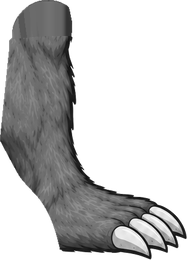
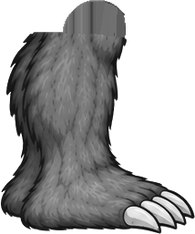
Beta: neue Figur – Rumpf und alle Beinstellungen seitlich aus einem Blatt
side_squats.png (stehend, leicht, halb, tief) ersetzt side_stand/side_half/side_torso:
gleiche Zeichnung, gleicher Massstab. Gesäss hinter dem Chalkbag ergänzt, hinteres Bein
bei gleichem Bewegungsablauf weggelassen (keine doppelten Umrisse).

Claude-Session: https://claude.ai/code/session_01RzgDZiCUCCWMjrRSUqxzer

diff --git a/beta/sloth-rig.js b/beta/sloth-rig.js
@@ -18,7 +18,7 @@ const slothPartHref = (im) => (im.startsWith('v2') ? SLOTH_RIG2_BASE : SLOTH_RIG
 const SLOTH_PARTS = {"front_head":[510,53,696,293],"front_torso":[456,248,745,582],"front_uarm_l":[296,251,478,388],"front_uarm_r":[723,251,904,388],"front_farm_l":[51,288,294,400],"front_farm_r":[907,288,1150,400],"front_thigh_l":[439,516,582,697],"front_thigh_r":[629,516,773,697],"front_tail":[566,584,643,725],"front_calf_l":[444,678,569,866],"front_calf_r":[643,679,768,866],"back_head":[510,53,696,293],"back_torso":[455,247,745,622],"back_uarm_l":[300,251,478,388],"back_uarm_r":[723,251,900,388],"back_farm_l":[163,288,294,396],"back_farm_r":[906,288,1039,396],"back_elbow_l":[267,315,319,367],"back_elbow_r":[881,314,934,367],"back_grip_l":[195,606,314,813],"back_grip_r":[899,606,1018,813],"back_thigh_l":[439,567,571,697],"back_thigh_r":[641,562,773,697],"back_tail":[566,619,643,741],"back_calf_l":[444,678,569,866],"back_calf_r":[643,678,768,866],"pose_russian_a":[209,33,499,221],"pose_russian_b":[679,29,968,221],"pose_ninety":[339,246,498,434],"pose_frog_a":[252,454,543,618],"pose_frog_b":[697,485,1018,614],"pose_extrot_a":[405,634,537,875],"pose_extrot_b":[633,634,817,876],"eq_plate":[570,40,688,159],"eq_kettlebell":[870,40,962,159],"eq_dumbbell":[184,51,365,151],"eq_dhandle":[178,193,273,328],"eq_rope":[515,183,622,331],"eq_ring":[866,182,955,336],"eq_barend":[66,379,285,434],"eq_bench":[326,418,558,499],"eq_incline":[604,353,821,499],"eq_decline":[887,404,1118,499],"eq_cable":[92,506,252,840],"eq_dipstation":[436,631,630,840],"eq_rack":[890,553,1108,840],"eq_latpull":[68,33,226,248],"eq_legpress":[312,68,575,239],"eq_legext":[657,67,851,241],"eq_legcurl":[917,67,1143,241],"eq_butterfly":[69,324,232,543],"eq_abduction":[362,329,510,543],"eq_calfseated":[657,417,844,543],"eq_calfstanding":[931,326,1134,541],"eq_hyperext":[71,688,280,839],"eq_pullover":[465,604,649,840],"eq_tbar":[877,653,1112,840],"eq_abwheel":[181,58,443,250],"eq_jumprope":[776,42,989,261],"eq_ladder":[93,361,534,514],"eq_stepbox":[748,354,1035,538],"eq_band":[93,682,531,759],"eq_mat":[627,666,1152,759],"eq_stack":[303,516,390,652],"eq_calfframe":[499,491,711,666],"eq_calfpad":[807,531,920,627],"eq_dipbars":[292,735,461,819],"eq_nordic":[535,711,724,819],"eq_abductseat":[1008,654,1141,819],"eq_edge":[818,753,954,823],"front_face_neutral":[106,22,253,213],"front_face_effort":[106,22,251,213],"front_face_blink":[106,22,253,213],"front_face_yawn":[106,22,253,213],"side_face_neutral":[104,40,335,317],"side_face_effort":[103,40,334,317],"side_face_blink":[104,40,332,317],"side_torso":[458,53,699,568],"side_body":[458,220,692,568],"side_tail":[372,453,473,535],"side_uarm":[791,80,910,268],"side_uarm_far":[791,80,910,268],"side_elbow":[811,261,857,307],"side_elbow_far":[811,261,857,307],"side_farm":[770,320,959,400],"side_farm_far":[770,320,959,400],"side_hand":[990,449,1166,539],"side_hand_far":[990,449,1166,539],"side_thigh":[629,516,773,687],"side_thigh_far":[629,516,773,687],"side_knee":[721,652,768,700],"side_knee_far":[721,652,768,700],"side_calf":[1020,689,1180,854],"side_calf_far":[1020,689,1180,854],"side_shin":[1020,689,1122,793],"side_shin_far":[1020,689,1122,793],"side_fist":[59,109,404,284],"side_fist_far":[59,109,404,284],"side_foot":[152,622,370,804],"side_foot_far":[152,622,370,804],"side_flat":[624,706,893,825],"side_flat_far":[624,706,893,825]};
 /* PARTS:END */
 /* V2:BEGIN */
-const SLOTH_V2 = {"parts":{"v2front_torso":[149,183,351,481],"v2front_head":[173,15,331,198],"v2front_uarm_l":[86,206,200,366],"v2front_farm_l":[12,322,139,516],"v2front_farmfist_l":[16,322,138,468],"v2front_thigh_l":[142,400,251,584],"v2front_calf_l":[80,546,224,758],"v2front_uarm_r":[300,206,418,364],"v2front_farm_r":[365,322,497,516],"v2front_farmfist_r":[370,322,494,468],"v2front_thigh_r":[252,400,365,584],"v2front_calf_r":[284,546,428,758],"v2back_torso":[149,182,351,466],"v2back_head":[174,12,338,201],"v2back_uarm_l":[79,204,201,371],"v2back_farm_l":[30,326,142,440],"v2back_grip_l":[12,412,86,518],"v2back_thigh_l":[143,398,252,586],"v2back_calf_l":[78,546,224,753],"v2back_uarm_r":[300,204,429,367],"v2back_farm_r":[370,326,478,438],"v2back_grip_r":[426,412,499,518],"v2back_thigh_r":[250,397,370,585],"v2back_calf_r":[285,546,430,753],"v2hang_torso":[164,216,346,464],"v2hang_head":[196,120,317,263],"v2hang_uarm_l":[126,136,213,334],"v2hang_farm_l":[122,50,192,164],"v2hang_grip_l":[120,13,198,74],"v2hang_thigh_l":[152,400,261,581],"v2hang_calf_l":[136,540,235,754],"v2hang_uarm_r":[297,136,387,348],"v2hang_farm_r":[321,52,391,164],"v2hang_grip_r":[316,13,392,74],"v2hang_thigh_r":[250,400,360,582],"v2hang_calf_r":[277,540,376,754],"v2sit_torso":[153,184,361,403],"v2sit_head":[176,22,337,196],"v2sit_uarm_l":[78,215,181,389],"v2sit_farm_l":[49,352,150,539],"v2sit_thigh_l":[136,377,258,491],"v2sit_calf_l":[100,453,244,750],"v2sit_uarm_r":[330,216,435,389],"v2sit_farm_r":[362,352,464,539],"v2sit_thigh_r":[254,377,376,489],"v2sit_calf_r":[268,453,412,750],"v2side_torso":[87,211,307,557],"v2side_face":[92,11,254,191],"v2side_uarm":[157,180,325,270],"v2side_farm":[296,184,442,266],"v2side_hand":[422,190,496,238],"v2side_fist":[296,184,496,266],"v2side_flat":[422,190,496,238],"v2side_uarm_far":[157,180,325,270],"v2side_farm_far":[296,184,442,266],"v2side_hand_far":[422,190,496,238],"v2side_fist_far":[296,184,496,266],"v2side_flat_far":[422,190,496,238],"v2side_thigh":[212,448,361,680],"v2side_thigh_far":[212,448,361,680],"v2side_calf":[271,640,458,900],"v2side_calf_far":[271,640,458,900],"v2side_shin":[271,640,347,836],"v2side_shin_far":[271,640,347,836],"v2side_foot":[291,783,457,899],"v2side_foot_far":[291,783,457,899],"v2side_thigh45":[127,452,355,622],"v2side_thigh45_far":[127,452,355,622],"v2side_thigh90":[110,416,406,578],"v2side_thigh90_far":[110,416,406,578]},"joints":{"front":{"torso":[[250.0,445.0],[250.0,185.0]],"head":[[250.0,185.0],[250.0,20.0]],"farm_l":[[102.5,345.0],[40.0,495.0]],"uarm_l":[[165.0,240.0],[102.5,345.0]],"thigh_l":[[210.0,445.0],[180.0,575.0]],"calf_l":[[180.0,575.0],[155.0,695.0]],"farm_r":[[397.5,345.0],[462.5,495.0]],"uarm_r":[[335.0,240.0],[397.5,345.0]],"thigh_r":[[290.0,445.0],[320.0,575.0]],"calf_r":[[320.0,575.0],[345.0,695.0]]},"back":{"torso":[[250.0,445.0],[250.0,190.0]],"head":[[250.0,190.0],[250.0,15.0]],"grip_l":[[57.5,430.0],[42.5,500.0]],"farm_l":[[102.5,350.0],[57.5,430.0]],"uarm_l":[[165.0,240.0],[102.5,350.0]],"thigh_l":[[210.0,445.0],[180.0,575.0]],"calf_l":[[180.0,575.0],[155.0,695.0]],"grip_r":[[445.0,430.0],[465.0,500.0]],"farm_r":[[400.0,350.0],[445.0,430.0]],"uarm_r":[[335.0,240.0],[400.0,350.0]],"thigh_r":[[290.0,445.0],[325.0,575.0]],"calf_r":[[325.0,575.0],[350.0,695.0]]},"hang":{"torso":[[255.0,465.0],[255.0,235.0]],"head":[[255.0,235.0],[255.0,120.0]],"grip_l":[[152.5,55.0],[157.5,25.0]],"farm_l":[[150.0,140.0],[152.5,55.0]],"uarm_l":[[177.5,255.0],[150.0,140.0]],"thigh_l":[[222.5,465.0],[187.5,570.0]],"calf_l":[[187.5,570.0],[172.5,700.0]],"grip_r":[[355.0,55.0],[352.5,25.0]],"farm_r":[[357.5,140.0],[355.0,55.0]],"uarm_r":[[332.5,255.0],[357.5,140.0]],"thigh_r":[[287.5,465.0],[322.5,570.0]],"calf_r":[[322.5,570.0],[340.0,700.0]]},"sit":{"torso":[[255.0,415.0],[255.0,190.0]],"head":[[255.0,190.0],[255.0,25.0]],"farm_l":[[105.0,375.0],[75.0,525.0]],"uarm_l":[[145.0,257.5],[105.0,375.0]],"thigh_l":[[190.0,415.0],[192.5,482.5]],"calf_l":[[192.5,482.5],[169.0,660.0]],"farm_r":[[405.0,375.0],[435.0,525.0]],"uarm_r":[[365.0,257.5],[405.0,375.0]],"thigh_r":[[320.0,415.0],[320.0,482.5]],"calf_r":[[320.0,482.5],[340.0,660.0]]},"side":{"torso":[[210.0,533.5],[213.8,315.9]],"face":[[200.0,170.0],[165.0,30.0]],"flex":{"thigh":6.7,"thigh45":74.1,"thigh90":92.4},"thigh45":[[154.5,507.3],[280.7,579.4]],"thigh90":[[167.5,492.5],[320.0,505.0]],"uarm":[[200.0,222.5],[320.0,225.0]],"farm":[[320.0,225.0],[440.0,212.5]],"fist":[[320.0,225.0],[440.0,212.5]],"hand":[[440.0,212.5],[492.5,215.0]],"flat":[[440.0,212.5],[492.5,215.0]],"thigh":[[288.0,525.0],[318.0,675.0]],"calf":[[318.0,675.0],[318.0,810.0]],"shin":[[318.0,675.0],[318.0,810.0]],"foot":[[318.0,810.0],[444.0,864.0]]}},"anchors":{"front":{"neck":[250.0,185.0],"sh_l":[165.0,240.0],"sh_r":[335.0,240.0],"hip_l":[210.0,445.0],"hip_r":[290.0,445.0],"tail":[250.0,445.0]},"back":{"neck":[250.0,190.0],"sh_l":[165.0,240.0],"sh_r":[335.0,240.0],"hip_l":[210.0,445.0],"hip_r":[290.0,445.0],"tail":[250.0,445.0]},"hang":{"neck":[255.0,235.0],"sh_l":[177.5,255.0],"sh_r":[332.5,255.0],"hip_l":[222.5,465.0],"hip_r":[287.5,465.0],"tail":[255.0,465.0]},"sit":{"neck":[255.0,190.0],"sh_l":[145.0,257.5],"sh_r":[365.0,257.5],"hip_l":[190.0,415.0],"hip_r":[320.0,415.0],"tail":[255.0,415.0]},"side":{"shoulder":[213.8,315.9],"hip":[210.0,533.5],"tail":[137.0,545.0],"face":[242.1,260.9]}}};
+const SLOTH_V2 = {"parts":{"v2front_torso":[149,183,351,481],"v2front_head":[173,15,331,198],"v2front_uarm_l":[86,206,200,366],"v2front_farm_l":[12,322,139,516],"v2front_farmfist_l":[16,322,138,468],"v2front_thigh_l":[142,400,251,584],"v2front_calf_l":[80,546,224,758],"v2front_uarm_r":[300,206,418,364],"v2front_farm_r":[365,322,497,516],"v2front_farmfist_r":[370,322,494,468],"v2front_thigh_r":[252,400,365,584],"v2front_calf_r":[284,546,428,758],"v2back_torso":[149,182,351,466],"v2back_head":[174,12,338,201],"v2back_uarm_l":[79,204,201,371],"v2back_farm_l":[30,326,142,440],"v2back_grip_l":[12,412,86,518],"v2back_thigh_l":[143,398,252,586],"v2back_calf_l":[78,546,224,753],"v2back_uarm_r":[300,204,429,367],"v2back_farm_r":[370,326,478,438],"v2back_grip_r":[426,412,499,518],"v2back_thigh_r":[250,397,370,585],"v2back_calf_r":[285,546,430,753],"v2hang_torso":[164,216,346,464],"v2hang_head":[196,120,317,263],"v2hang_uarm_l":[126,136,213,334],"v2hang_farm_l":[122,50,192,164],"v2hang_grip_l":[120,13,198,74],"v2hang_thigh_l":[152,400,261,581],"v2hang_calf_l":[136,540,235,754],"v2hang_uarm_r":[297,136,387,348],"v2hang_farm_r":[321,52,391,164],"v2hang_grip_r":[316,13,392,74],"v2hang_thigh_r":[250,400,360,582],"v2hang_calf_r":[277,540,376,754],"v2sit_torso":[153,184,361,403],"v2sit_head":[176,22,337,196],"v2sit_uarm_l":[78,215,181,389],"v2sit_farm_l":[49,352,150,539],"v2sit_thigh_l":[136,377,258,491],"v2sit_calf_l":[100,453,244,750],"v2sit_uarm_r":[330,216,435,389],"v2sit_farm_r":[362,352,464,539],"v2sit_thigh_r":[254,377,376,489],"v2sit_calf_r":[268,453,412,750],"v2side_torso":[30,238,263,592],"v2side_face":[92,11,254,191],"v2side_uarm":[157,180,325,270],"v2side_farm":[296,184,442,266],"v2side_hand":[422,190,496,238],"v2side_fist":[296,184,496,266],"v2side_flat":[422,190,496,238],"v2side_uarm_far":[157,180,325,270],"v2side_farm_far":[296,184,442,266],"v2side_hand_far":[422,190,496,238],"v2side_fist_far":[296,184,496,266],"v2side_flat_far":[422,190,496,238],"v2side_thigh":[84,498,226,712],"v2side_thigh_far":[84,498,226,712],"v2side_calf":[81,672,276,906],"v2side_calf_far":[81,672,276,906],"v2side_shin":[81,672,208,903],"v2side_shin_far":[81,672,208,903],"v2side_foot":[127,815,275,905],"v2side_foot_far":[127,815,275,905],"v2side_thighA":[394,534,584,722],"v2side_thighA_far":[394,534,584,722],"v2side_thighB":[691,567,927,732],"v2side_thighB_far":[691,567,927,732],"v2side_thighC":[1023,609,1308,753],"v2side_thighC_far":[1023,609,1308,753]},"joints":{"front":{"torso":[[250.0,445.0],[250.0,185.0]],"head":[[250.0,185.0],[250.0,20.0]],"farm_l":[[102.5,345.0],[40.0,495.0]],"uarm_l":[[165.0,240.0],[102.5,345.0]],"thigh_l":[[210.0,445.0],[180.0,575.0]],"calf_l":[[180.0,575.0],[155.0,695.0]],"farm_r":[[397.5,345.0],[462.5,495.0]],"uarm_r":[[335.0,240.0],[397.5,345.0]],"thigh_r":[[290.0,445.0],[320.0,575.0]],"calf_r":[[320.0,575.0],[345.0,695.0]]},"back":{"torso":[[250.0,445.0],[250.0,190.0]],"head":[[250.0,190.0],[250.0,15.0]],"grip_l":[[57.5,430.0],[42.5,500.0]],"farm_l":[[102.5,350.0],[57.5,430.0]],"uarm_l":[[165.0,240.0],[102.5,350.0]],"thigh_l":[[210.0,445.0],[180.0,575.0]],"calf_l":[[180.0,575.0],[155.0,695.0]],"grip_r":[[445.0,430.0],[465.0,500.0]],"farm_r":[[400.0,350.0],[445.0,430.0]],"uarm_r":[[335.0,240.0],[400.0,350.0]],"thigh_r":[[290.0,445.0],[325.0,575.0]],"calf_r":[[325.0,575.0],[350.0,695.0]]},"hang":{"torso":[[255.0,465.0],[255.0,235.0]],"head":[[255.0,235.0],[255.0,120.0]],"grip_l":[[152.5,55.0],[157.5,25.0]],"farm_l":[[150.0,140.0],[152.5,55.0]],"uarm_l":[[177.5,255.0],[150.0,140.0]],"thigh_l":[[222.5,465.0],[187.5,570.0]],"calf_l":[[187.5,570.0],[172.5,700.0]],"grip_r":[[355.0,55.0],[352.5,25.0]],"farm_r":[[357.5,140.0],[355.0,55.0]],"uarm_r":[[332.5,255.0],[357.5,140.0]],"thigh_r":[[287.5,465.0],[322.5,570.0]],"calf_r":[[322.5,570.0],[340.0,700.0]]},"sit":{"torso":[[255.0,415.0],[255.0,190.0]],"head":[[255.0,190.0],[255.0,25.0]],"farm_l":[[105.0,375.0],[75.0,525.0]],"uarm_l":[[145.0,257.5],[105.0,375.0]],"thigh_l":[[190.0,415.0],[192.5,482.5]],"calf_l":[[192.5,482.5],[169.0,660.0]],"farm_r":[[405.0,375.0],[435.0,525.0]],"uarm_r":[[365.0,257.5],[405.0,375.0]],"thigh_r":[[320.0,415.0],[320.0,482.5]],"calf_r":[[320.0,482.5],[340.0,660.0]]},"side":{"torso":[[159.2,546.0],[163.8,327.6]],"face":[[200.0,170.0],[165.0,30.0]],"flex":{"thigh":8.3,"thighA":54.6,"thighB":88.5,"thighC":111.2},"thighA":[[441.4,591.5],[538.7,675.2]],"thighB":[[728.0,637.0],[873.6,684.3]],"thighC":[[1078.4,678.0],[1269.5,680.7]],"uarm":[[200.0,222.5],[320.0,225.0]],"farm":[[320.0,225.0],[440.0,212.5]],"fist":[[320.0,225.0],[440.0,212.5]],"hand":[[440.0,212.5],[492.5,215.0]],"flat":[[440.0,212.5],[492.5,215.0]],"thigh":[[159.2,559.6],[177.5,705.2]],"calf":[[177.5,705.2],[159.2,841.8]],"shin":[[177.5,705.2],[159.2,841.8]],"foot":[[159.2,841.8],[245.7,887.2]]}},"anchors":{"front":{"neck":[250.0,185.0],"sh_l":[165.0,240.0],"sh_r":[335.0,240.0],"hip_l":[210.0,445.0],"hip_r":[290.0,445.0],"tail":[250.0,445.0]},"back":{"neck":[250.0,190.0],"sh_l":[165.0,240.0],"sh_r":[335.0,240.0],"hip_l":[210.0,445.0],"hip_r":[290.0,445.0],"tail":[250.0,445.0]},"hang":{"neck":[255.0,235.0],"sh_l":[177.5,255.0],"sh_r":[332.5,255.0],"hip_l":[222.5,465.0],"hip_r":[287.5,465.0],"tail":[255.0,465.0]},"sit":{"neck":[255.0,190.0],"sh_l":[145.0,257.5],"sh_r":[365.0,257.5],"hip_l":[190.0,415.0],"hip_r":[320.0,415.0],"tail":[255.0,415.0]},"side":{"shoulder":[163.8,327.6],"hip":[159.2,546.0],"tail":[54.6,591.5],"face":[186.6,265.7]}}};
 /* V2:END */
 
 // Gelenkpunkte in Vorlagen-Koordinaten (1200 x 896): [nah, fern]
@@ -875,6 +875,9 @@ function slothRigBuild(pose, v2 = false) {
     // Schwanz-Winkel relativ zum Rumpf wie in der bisherigen Zeichnung
     const oa = (n) => { const [p, d] = SLOTH_JOINTS.side[n]; return Math.atan2(d[1] - p[1], d[0] - p[0]) * 180 / Math.PI; };
     q.tail = place('tail', t.map(A.tail), s.torso + oa('tail') - oa('torso') + (s.tail || 0));
+    // v2: das hintere Bein liegt in der Zeichnung genau hinter dem vorderen. Bewegen sich beide Beine gleich,
+    // zeigt eine versetzte zweite Kopie nur doppelte Umrisse -> dann hinteres Bein weglassen.
+    const sameLegs = v2 && !pose.farFoot && ![pose.a, pose.b].some((k) => ['fthigh', 'fcalf', 'ffoot', 'legBend', 'kneeThigh', 'kneeCalf'].some((n) => k[n] != null));
     for (const far of [false, true]) {
       const x = far ? '_far' : '', raw = (k) => (far ? s['f' + k] ?? s[k] : s[k]);
       // relArms: Armwinkel relativ zum Rumpf (Arme drehen beim Aufrichten mit)
@@ -919,21 +922,23 @@ function slothRigBuild(pose, v2 = false) {
         q.calf_far = place('calf', th.end, Math.atan2(cv[1], cv[0]) * 180 / Math.PI + (pose.farFoot[2] || 0), 'side_calf_far');
       }
     }
-    // v2: Gesäss + Oberschenkel gibt es gezeichnet stehend, halb und tief gebeugt. Je nach Hüftbeugung
-    // (Winkel Rumpf -> Oberschenkel) wird zur passenden Zeichnung übergeblendet, statt nur zu drehen.
+    // v2: Gesäss + Oberschenkel gibt es gezeichnet stehend und in drei Beugungen (ein Blatt, gleiche Zeichnung).
+    // Je nach Hüftbeugung (Winkel Rumpf -> Oberschenkel) wird zur passenden Zeichnung übergeblendet, statt nur zu drehen.
+    if (sameLegs) for (const k of ['thigh_far', 'knee_far', 'calf_far', 'foot_far']) if (q[k]) q[k] = { skip: true, P: q[k].P, end: q[k].end };
     if (v2 && J.flex) for (const x of ['', '_far']) {
       const th = q['thigh' + x];
       if (!th || th.skip) continue;
       const [b0, b1] = J.thigh, deg = th.r + Math.atan2(b1[1] - b0[1], b1[0] - b0[0]) * 180 / Math.PI;
       const f = ((s.torso + 180 - deg) % 360 + 540) % 360 - 180, F = J.flex;
       const ramp = (lo, hi) => { const u = Math.min(1, Math.max(0, (f - lo) / (hi - lo))); return u * u * (3 - 2 * u); };
-      const mid = (a, b, t) => a + (b - a) * t;
-      // kurzer Übergang (±5°) in der Mitte zwischen zwei Zeichnungen: kein durchscheinendes Geisterbein
-      const m1 = mid(F.thigh, F.thigh45, 0.5), m2 = mid(F.thigh45, F.thigh90, 0.5);
-      const o45 = ramp(m1 - 5, m1 + 5), o90 = ramp(m2 - 5, m2 + 5);
-      th.o = o45 >= 1 ? 0 : 1; // darunterliegende Stellung ausblenden, sobald die nächste ganz deckt
-      q['thigh45' + x] = { ...place('thigh45', th.P, deg, 'side_thigh45' + x), o: o90 >= 1 ? 0 : o45 };
-      q['thigh90' + x] = { ...place('thigh90', th.P, deg, 'side_thigh90' + x), o: o90 };
+      // kurzer Übergang (±5°) in der Mitte zwischen zwei Zeichnungen; darunterliegende ausblenden, sobald die nächste deckt
+      const ks = Object.keys(F).sort((m, n) => F[m] - F[n]);
+      const op = ks.map((k, i) => (i === 0 ? 1 : ramp((F[ks[i - 1]] + F[k]) / 2 - 5, (F[ks[i - 1]] + F[k]) / 2 + 5)));
+      ks.forEach((k, i) => {
+        const o = op[i + 1] >= 1 ? 0 : op[i];
+        if (k === 'thigh') th.o = o;
+        else q[k + x] = { ...place(k, th.P, deg, 'side_' + k + x), o };
+      });
     }
     for (const k of pose.mirror || []) q[k].k = [q[k].k, -q[k].k]; // Teil an der Knochenachse spiegeln
     return { q, pts: { wrist: q.farm.end, ankle: q.calf.end, grip: q.hand.end, knee: q.thigh.end, elbow: q.uarm.end,
@@ -1119,7 +1124,8 @@ function slothRigPrepare(poseName) {
   // armsFront: Arme vor dem Rumpf zeichnen (Vorderansicht, Arme kreuzen die Brust)
   let base = SLOTH_ORDER[pose.view];
   // gebeugte Oberschenkel-Zeichnungen direkt über dem stehenden Oberschenkel
-  base = base.flatMap((k) => { const m = /^thigh(_far)?$/.exec(k); return m && pose.view === 'side' ? [k, 'thigh45' + (m[1] || ''), 'thigh90' + (m[1] || '')] : [k]; });
+  const flexKeys = Object.keys(SLOTH_V2.joints.side.flex || {}).filter((k) => k !== 'thigh').sort((m, n) => SLOTH_V2.joints.side.flex[m] - SLOTH_V2.joints.side.flex[n]);
+  base = base.flatMap((k) => { const m = /^thigh(_far)?$/.exec(k); return m && pose.view === 'side' ? [k, ...flexKeys.map((f) => f + (m[1] || ''))] : [k]; });
   if (pose.armsFront) { const arms = base.filter((k) => /arm/.test(k)); base = base.filter((k) => !/arm/.test(k)); base.splice(base.indexOf('torso') + 1, 0, ...arms); }
   // drawLast: Teile ganz nach vorne holen (z. B. gefalteter Unterschenkel vor dem eigenen Oberschenkel)
   if (pose.drawLast) { base = base.filter((k) => !pose.drawLast.includes(k)); base.push(...pose.drawLast); }

diff --git a/beta/sw.js b/beta/sw.js
@@ -1,4 +1,4 @@
-const CACHE_NAME = 'pincho-beta-v69';
+const CACHE_NAME = 'pincho-beta-v70';
 const SHELL_ASSETS = [
   './', './index.html', './styles.css', './data.js', './firebase.js', './sloth-rig.js', './app.js',
   './manifest.json', '../assets/icon-512-any.png', '../assets/icon-192-any.png', '../assets/icon-512-transparent.png', '../assets/icon-512-maskable.png', '../assets/icon-beta-192-any.png', '../assets/icon-beta-512-maskable.png',

diff --git a/tools/sloth-rig/build_v2.py b/tools/sloth-rig/build_v2.py
@@ -68,8 +68,10 @@ VIEWS = {
 CAP = {'sh': 70, 'el': 46, 'wr': 36, 'hip': 75, 'kn': 58, 'an': 44, 'neck': 60}
 
 
-def figure(path):
+def figure(path, xr=None):
     A = np.asarray(Image.open(os.path.join(HERE, 'sheets', 'v2', path)).convert('RGB')).astype(float)
+    if xr:  # Blatt mit mehreren Figuren: nur die Spalte xr = (x0, x1) behalten
+        A = A.copy(); A[:, :xr[0]] = 255; A[:, xr[1]:] = 255
     white = (A.min(2) > 225) & (np.ptp(A, 2) < 25)
     fig = ndi.binary_fill_holes(~white)
     lab, n = ndi.label(fig)
@@ -239,18 +241,33 @@ def cut_view(view, cfg, parts, joints, anchors):
 
 # Seitlicher Rumpf ohne Arme (Brust frei). Gelenke in Blatt-Pixeln; sy streckt den Rumpf auf die Länge
 # von side.jpg (Schulter -> Gürtel), damit Kopf, Arm und Beine von dort passen.
-SIDE_TORSO = dict(src='side_torso.jpg', sx=0.95, sy=1.08, rot=6,
-    J=dict(neck=(520, 490), sh=(450, 585), hip=(400, 985), tail=(245, 990)),
-    poly=[(290, 420), (540, 400), (560, 480), (610, 540), (645, 620), (630, 710), (600, 780), (575, 850), (548, 905), (420, 878), (312, 842),
-          (298, 880), (285, 950), (250, 1000), (165, 1005), (140, 940), (150, 800), (195, 785), (285, 780), (290, 700), (290, 600), (285, 500)])
+# Seite ohne Arme: Rumpf und alle Beinstellungen aus EINEM Blatt (side_squats.png, vier Figuren nebeneinander:
+# stehend, leicht, halb, tief gebeugt). Ein Blatt = ein Zeichendurchgang -> Fell, Dicke und Gesäss passen zusammen.
+# Alle Teile mit demselben Massstab SQ (Rumpflänge wie bisher, damit Kopf und Arm aus side.jpg passen).
+SQ = 1.82
+SQX = [(0, 340), (340, 680), (680, 1050), (1050, 1536)]
+SIDE_TORSO = dict(src='side_squats.png', xr=SQX[0], sx=SQ, sy=SQ, rot=0,
+    J=dict(neck=(205, 292), sh=(180, 360), hip=(175, 600), tail=(60, 650)),
+    poly=[(85, 300), (150, 270), (250, 262), (282, 318), (300, 395), (294, 460), (265, 515), (250, 592), (100, 556), (80, 450), (70, 350)],
+    bag=[(22, 512), (112, 512), (112, 648), (22, 648)])
 
 
 def side_torso(parts, key, cfg):
-    A, G, fig, alpha = figure(cfg['src'])
+    A, G, fig, alpha = figure(cfg['src'], cfg.get('xr'))
     H, W = fig.shape
     im = Image.new('L', (W, H), 0)
     ImageDraw.Draw(im).polygon(cfg['poly'], fill=1)
     mask = np.asarray(im).astype(bool) & fig
+    if cfg.get('bag'):  # Chalkbag gehört zum Rumpf – nur der Beutel selbst (nicht Fell daneben)
+        bm = Image.new('L', (W, H), 0)
+        ImageDraw.Draw(bm).polygon(cfg['bag'], fill=1)
+        fur = (A[..., 0] - A[..., 2] > 55) & (A.max(2) < 215)
+        bag = np.asarray(bm).astype(bool) & fig & ~fur
+        bag = ndi.binary_fill_holes(ndi.binary_closing(bag, iterations=3))
+        lb, nn = ndi.label(bag)
+        if nn > 1:
+            bag = lb == (np.argmax(ndi.sum(bag, lb, range(1, nn + 1))) + 1)
+        mask = mask | ndi.binary_dilation(bag, iterations=2) & fig
     lb, nn = ndi.label(mask)
     if nn > 1:
         mask = lb == (np.argmax(ndi.sum(mask, lb, range(1, nn + 1))) + 1)
@@ -270,20 +287,43 @@ def side_torso(parts, key, cfg):
     return {k: [round(rotp(q)[0] * fx, 1), round(rotp(q)[1] * fy, 1)] for k, q in cfg['J'].items()}
 
 
-# Gesäss + Oberschenkel in gebeugten Stellungen (Seite, ohne Arme). Die Puppe blendet je nach Hüftwinkel
-# zwischen stehend (side.jpg), halb (45) und tief (90) über, statt den stehenden Oberschenkel nur zu drehen.
-# torso = (Hüfte, Schulter) der Zeichnung für den Rumpfwinkel; belt = Unterkante Gürtel; bag = Chalkbag (gehört zum Rumpf).
-# Stehendes Bein (Seite, ohne Arme): Oberschenkel mit Gesäss, Unterschenkel, Fuss. *L = hinteres Bein (nur zum Ausschliessen).
-# scale: Zeichnungen derselben Serie, auf die Grösse des Rumpfs (side_torso.jpg) gebracht.
-SIDE_STAND = dict(src='side_stand.png', scale=1.2, hip=(480, 875), kn=(530, 1125), an=(530, 1350), to=(740, 1440), torso=((470, 860), (440, 490)),
-                  thL=(430, 1010), knL=(405, 1140), anL=(365, 1335), toL=(470, 1405),
-                  belt=((400, 760), (595, 835)), bag=[(258, 705), (402, 708), (398, 765), (362, 800), (358, 908), (258, 908)])
+# Beine aus side_squats.png. torso = (Hüfte, Schulter) der Figur für den Beugewinkel; belt = Unterkante Gürtel;
+# bag = Chalkbag (gehört zum Rumpf). Stehend: ganzes Bein (Oberschenkel, Unterschenkel, Fuss); gebeugt: nur Gesäss + Oberschenkel,
+# die Puppe blendet je nach Hüftwinkel zur nächsten Zeichnung über.
+SIDE_STAND = dict(src='side_squats.png', xr=SQX[0], scale=SQ, hip=(175, 615), kn=(195, 775), an=(175, 925), to=(270, 975), torso=((175, 600), (180, 360)),
+                  belt=((100, 532), (245, 575)), bag=[(22, 512), (112, 512), (112, 648), (22, 648)])
 SIDE_LEGS = {
-    'thigh45': dict(src='side_half.png', scale=1.03, hip=(300, 985), kn=(545, 1125), an=(400, 1370), to=(560, 1450), torso=((390, 1015), (480, 650)),
-                    belt=((280, 885), (525, 968)), bag=[(160, 812), (325, 815), (320, 860), (268, 895), (262, 1008), (160, 1012)]),
-    'thigh90': dict(src='side_torso.jpg', scale=1.0, hip=(335, 985), kn=(640, 1010), an=(520, 1330), to=(700, 1420), torso=((400, 985), (450, 585)),
-                    belt=((300, 845), (540, 910)), bag=[(140, 785), (305, 785), (300, 830), (222, 880), (220, 1008), (140, 1012)]),
+    'thighA': dict(src='side_squats.png', xr=SQX[1], scale=SQ, hip=(485, 650), kn=(592, 742), an=(512, 912), to=(620, 968), torso=((485, 640), (510, 370)),
+                   belt=((445, 568), (608, 600)), bag=[(405, 552), (488, 552), (488, 672), (405, 672)]),
+    'thighB': dict(src='side_squats.png', xr=SQX[2], scale=SQ, hip=(800, 700), kn=(960, 752), an=(862, 912), to=(995, 970), torso=((800, 690), (880, 420)),
+                   belt=((785, 612), (915, 655)), bag=[(702, 577), (785, 577), (785, 702), (702, 702)]),
+    'thighC': dict(src='side_squats.png', xr=SQX[3], scale=SQ, hip=(1185, 745), kn=(1395, 748), an=(1262, 912), to=(1400, 968), torso=((1185, 740), (1290, 480)),
+                   belt=((1175, 660), (1325, 712)), bag=[(1078, 628), (1170, 628), (1170, 758), (1078, 758)]),
 }
+
+
+def under_bag(mask, bag, fig, below, G, g, a0):
+    """Gesäss hinter dem Chalkbag ergänzen: Bag-Fläche innerhalb der konvexen Hülle des Beins mit Fell
+    (an der nächsten Beinkante gespiegelt) füllen, damit beim Drehen keine gerade Schnittkante sichtbar wird."""
+    from scipy.spatial import ConvexHull
+    pts = np.argwhere(mask)[:, ::-1]
+    H, W = mask.shape
+    hm = Image.new('L', (W, H), 0)
+    ImageDraw.Draw(hm).polygon([tuple(map(int, q)) for q in pts[ConvexHull(pts).vertices]], fill=1)
+    ry, rx = np.nonzero(bag & fig & below & ~mask & np.asarray(hm).astype(bool))
+    if not len(ry):
+        return mask
+    fill = np.zeros_like(mask); fill[ry, rx] = True
+    inner = ndi.binary_erosion(mask, iterations=6)
+    _, (iy, ix) = ndi.distance_transform_edt(~inner, return_indices=True)
+    qy, qx = iy[ry, rx], ix[ry, rx]
+    my = np.clip(2 * qy - ry, 0, H - 1); mx = np.clip(2 * qx - rx, 0, W - 1)
+    ok = inner[my, mx]
+    g[ry, rx] = np.where(ok, G[my, mx], G[qy, qx]); a0[ry, rx] = 1.0
+    # Umrisslinie am neuen Rand (wie gezeichnet)
+    edge = fill & ~ndi.binary_erosion(fill | mask, iterations=3)
+    g[:] = g * (1 - 0.8 * ndi.gaussian_filter(edge.astype(float), 0.8))
+    return mask | fill
 
 
 def flex_of(torso, hip, kn):
@@ -294,12 +334,12 @@ def flex_of(torso, hip, kn):
 
 
 def side_stand(parts, cfg):
-    """Stehendes Bein aus side_stand.png: thigh, calf (mit Fuss), shin, foot, je auch als _far (dunkler)."""
-    A, G, fig, alpha = figure(cfg['src'])
+    """Stehendes Bein: thigh, calf (mit Fuss), shin, foot, je auch als _far (dunkler)."""
+    A, G, fig, alpha = figure(cfg['src'], cfg.get('xr'))
     H, W = fig.shape
     yy, xx = np.mgrid[0:H, 0:W]
     (bx0, by0), (bx1, by1) = cfg['belt']
-    below = yy > by0 + (xx - bx0) * (by1 - by0) / (bx1 - bx0) - 14
+    below = yy > by0 + (xx - bx0) * (by1 - by0) / (bx1 - bx0) + 10  # ganz unter dem Gürtel, der Rumpf liegt darüber
     im = Image.new('L', (W, H), 0)
     ImageDraw.Draw(im).polygon(cfg['bag'], fill=1)
     bag = np.asarray(im).astype(bool)
@@ -308,8 +348,7 @@ def side_stand(parts, cfg):
         a = np.array(a, float); b = np.array(b, float); d = b - a
         t = np.clip(((xx - a[0]) * d[0] + (yy - a[1]) * d[1]) / (d @ d), 0, 1)
         return np.hypot(xx - a[0] - t * d[0], yy - a[1] - t * d[1])
-    bones = {'thigh': ('hip', 'kn'), 'calf': ('kn', 'an'), 'foot': ('an', 'to'),
-             'x2': ('knL', 'anL'), 'x3': ('anL', 'toL')}  # hinterer Oberschenkel liegt verdeckt: alles darüber gehört vorne
+    bones = {'thigh': ('hip', 'kn'), 'calf': ('kn', 'an'), 'foot': ('an', 'to'),}
     names = list(bones)
     own = np.argmin(np.stack([segd(cfg[a], cfg[b]) for a, b in bones.values()]), 0)
     rest = fig & below & ~bag
@@ -322,11 +361,13 @@ def side_stand(parts, cfg):
         if nn > 1:
             mask = lb == (np.argmax(ndi.sum(mask, lb, range(1, nn + 1))) + 1)
         g = G.copy(); a0 = alpha.copy()
+        if key == 'thigh':
+            mask = under_bag(mask, bag, fig, below, G, g, a0)
         if joint:  # Gelenkkappe mit eigenem Fell (liegt unter dem Elternteil)
             cap = (np.hypot(xx - cfg[joint][0], yy - cfg[joint][1]) < r) & ~mask & ndi.binary_erosion(fig, iterations=4)  # nie über den Umriss hinaus
             inner = ndi.binary_erosion(mask, iterations=8)
             _, (iy, ix) = ndi.distance_transform_edt(~inner, return_indices=True)
-            g[cap] = ndi.gaussian_filter(G, 3)[iy[cap], ix[cap]]; a0[cap] = 1.0
+            g[cap] = G[iy[cap], ix[cap]]; a0[cap] = 1.0
             mask = mask | cap
         mask = mask | (ndi.binary_dilation(mask, iterations=2) & ndi.binary_erosion(fig, iterations=3) & ~bag & below)
         a = ndi.gaussian_filter(mask.astype(float), 0.8) * np.where(mask, a0, 0)
@@ -338,20 +379,20 @@ def side_stand(parts, cfg):
             x0, y0 = round(bb[0] * f), round(bb[1] * f)
             parts[f'v2side_{key}{far}'] = [x0, y0, x0 + img.width, y0 + img.height]
     cut('thigh', M['thigh'])
-    cut('calf', M['calf'] | M['foot'], 'kn', 58)
-    cut('shin', M['calf'], 'kn', 58)
-    cut('foot', M['foot'], 'an', 44)
+    cut('calf', M['calf'] | M['foot'], 'kn', 36)
+    cut('shin', M['calf'], 'kn', 36)
+    cut('foot', M['foot'], 'an', 28)
     sc = lambda q: [round(q[0] * f, 1), round(q[1] * f, 1)]
     return {'thigh': [sc(cfg['hip']), sc(cfg['kn'])], 'calf': [sc(cfg['kn']), sc(cfg['an'])], 'shin': [sc(cfg['kn']), sc(cfg['an'])],
             'foot': [sc(cfg['an']), sc(cfg['to'])]}, flex_of(cfg['torso'], cfg['hip'], cfg['kn'])
 
 
 def side_thigh(parts, key, cfg, scale):
-    A, G, fig, alpha = figure(cfg['src'])
+    A, G, fig, alpha = figure(cfg['src'], cfg.get('xr'))
     H, W = fig.shape
     yy, xx = np.mgrid[0:H, 0:W]
     (bx0, by0), (bx1, by1) = cfg['belt']
-    below = yy > by0 + (xx - bx0) * (by1 - by0) / (bx1 - bx0) - 14  # etwas unter den Gürtel, der Rumpf liegt darüber
+    below = yy > by0 + (xx - bx0) * (by1 - by0) / (bx1 - bx0) + 10  # ganz unter dem Gürtel, der Rumpf liegt darüber
     im = Image.new('L', (W, H), 0)
     ImageDraw.Draw(im).polygon(cfg['bag'], fill=1)
     bag = np.asarray(im).astype(bool)
@@ -362,13 +403,15 @@ def side_thigh(parts, key, cfg, scale):
         return np.hypot(xx - a[0] - t * d[0], yy - a[1] - t * d[1])
     dth, dca, dfo = segd(cfg['hip'], cfg['kn']), segd(cfg['kn'], cfg['an']), segd(cfg['an'], cfg['to'])
     # das gebeugte Knie dieser Zeichnung gehört ganz zum Oberschenkel (liegt über dem Unterschenkel)
-    knee = np.hypot(xx - cfg['kn'][0], yy - cfg['kn'][1]) < 80
-    mask = fig & below & ~bag & (((dth <= dca) & (dth <= dfo)) | (knee & (dfo > 60)))
+    knee = np.hypot(xx - cfg['kn'][0], yy - cfg['kn'][1]) < 50
+    mask = fig & below & ~bag & (((dth <= dca) & (dth <= dfo)) | (knee & (dfo > 38)))
     mask = ndi.binary_opening(mask, iterations=2)
     lb, nn = ndi.label(mask)
     if nn > 1:
         mask = lb == (np.argmax(ndi.sum(mask, lb, range(1, nn + 1))) + 1)
     mask = mask | (ndi.binary_dilation(mask, iterations=2) & ndi.binary_erosion(fig, iterations=3) & ~bag & below)
+    G = G.copy(); alpha = alpha.copy()
+    mask = under_bag(mask, bag, fig, below, G.copy(), G, alpha)
     a = ndi.gaussian_filter(mask.astype(float), 0.8) * np.where(mask, alpha, 0)
     f = S * scale
     out = {}
